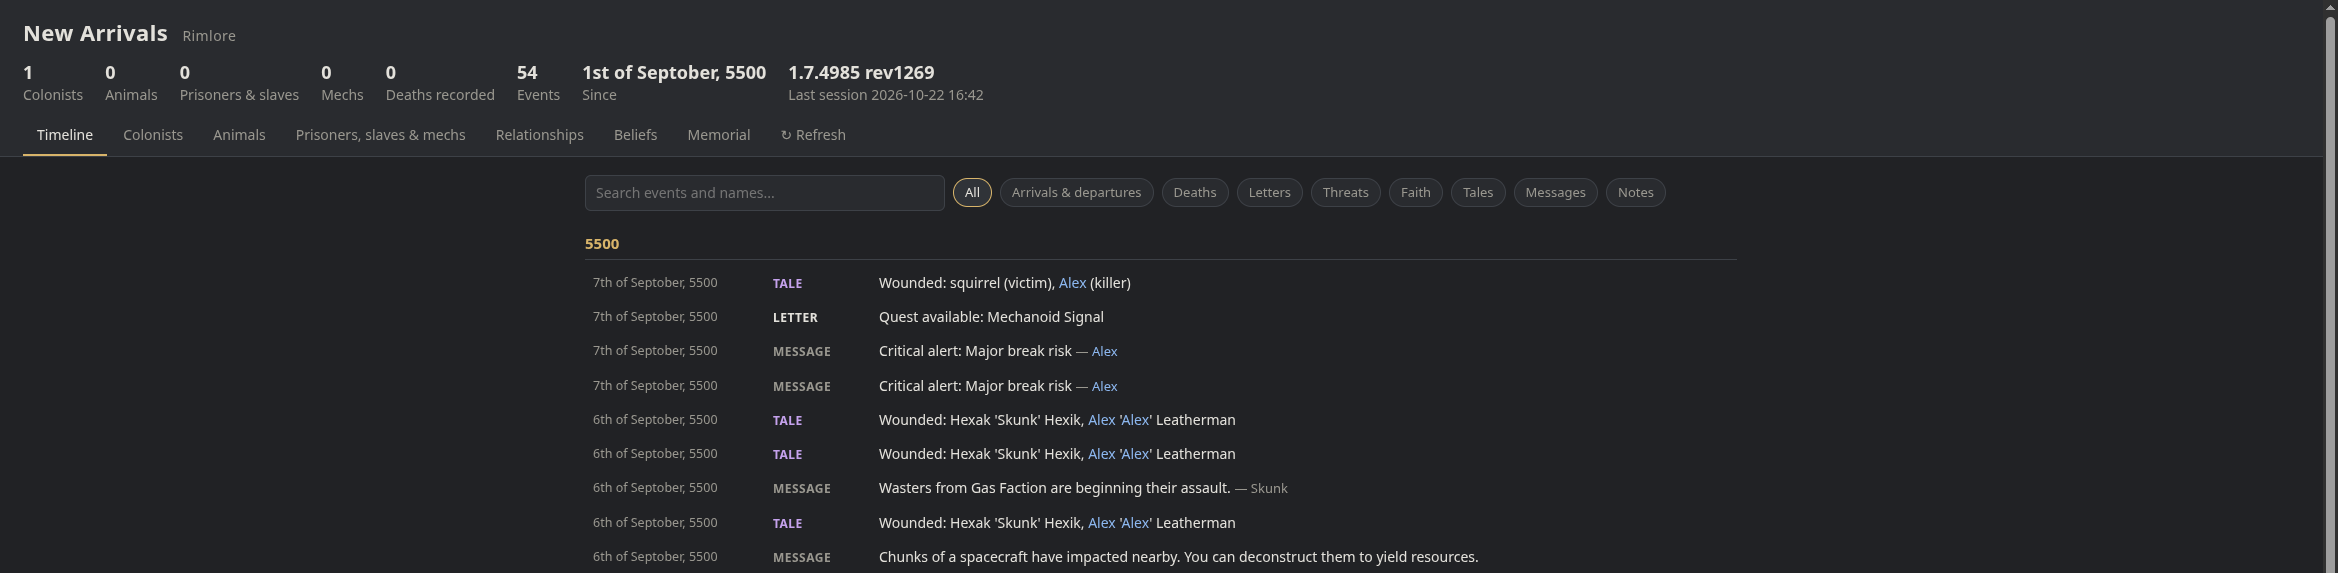
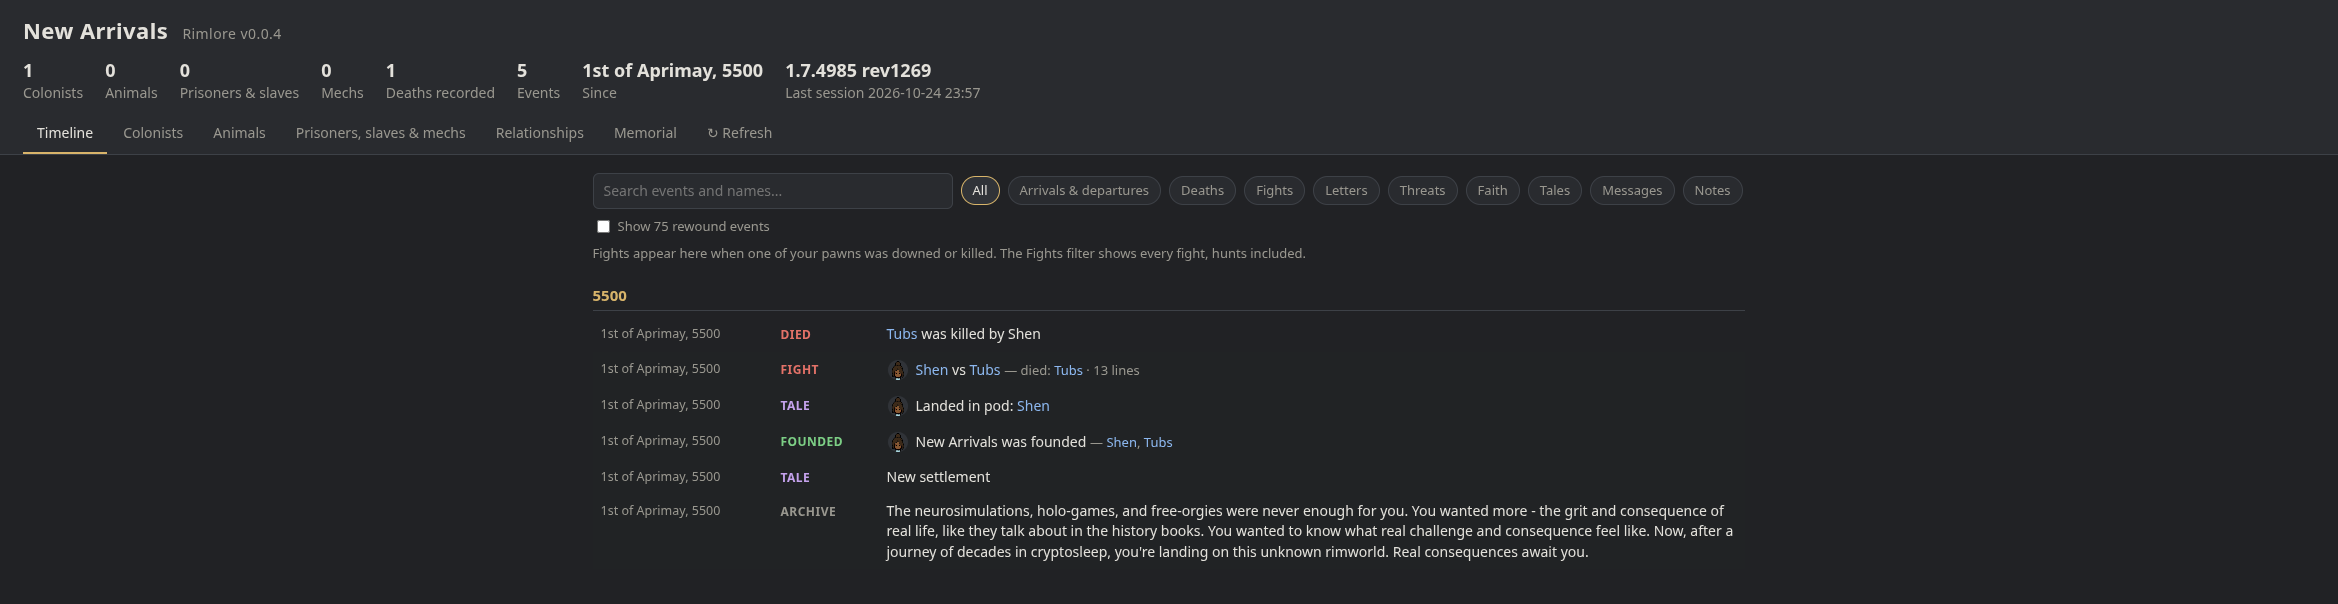
*Updated screenshots

diff --git a/README.md b/README.md
@@ -64,7 +64,9 @@ A few things are worth knowing:
 
 ![The timeline in the viewer](docs/Timeline.png)
 
-![A colonist's page in the viewer](docs/Colonist.png)
+![A colonist's page in the viewer](docs/Pawn_Portrait.png)
+
+![The Memorial tab in the viewer](docs/Memorial.png)
 
 ![The Beliefs tab in the viewer](docs/Beliefs.png)
 
